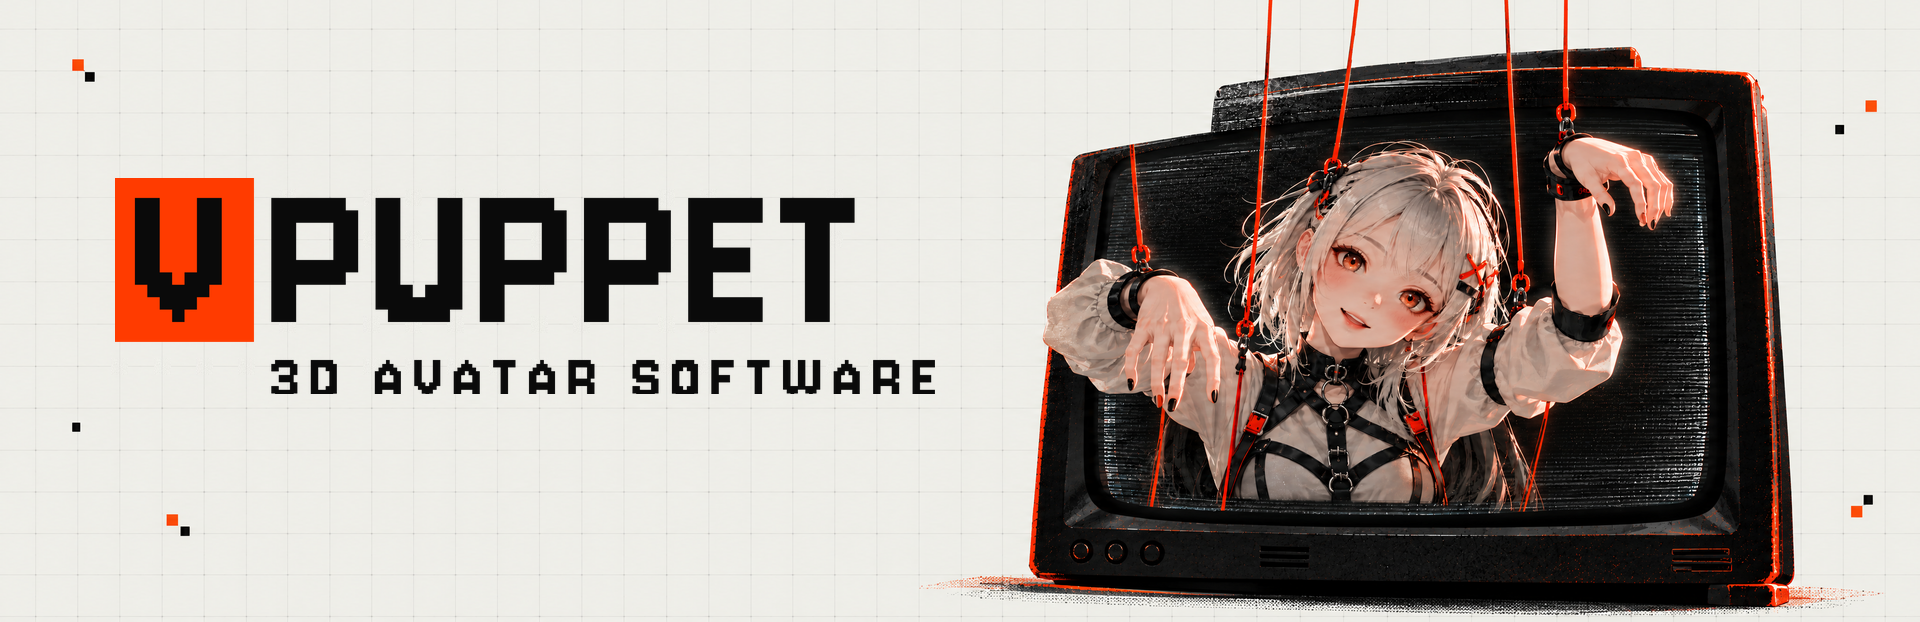
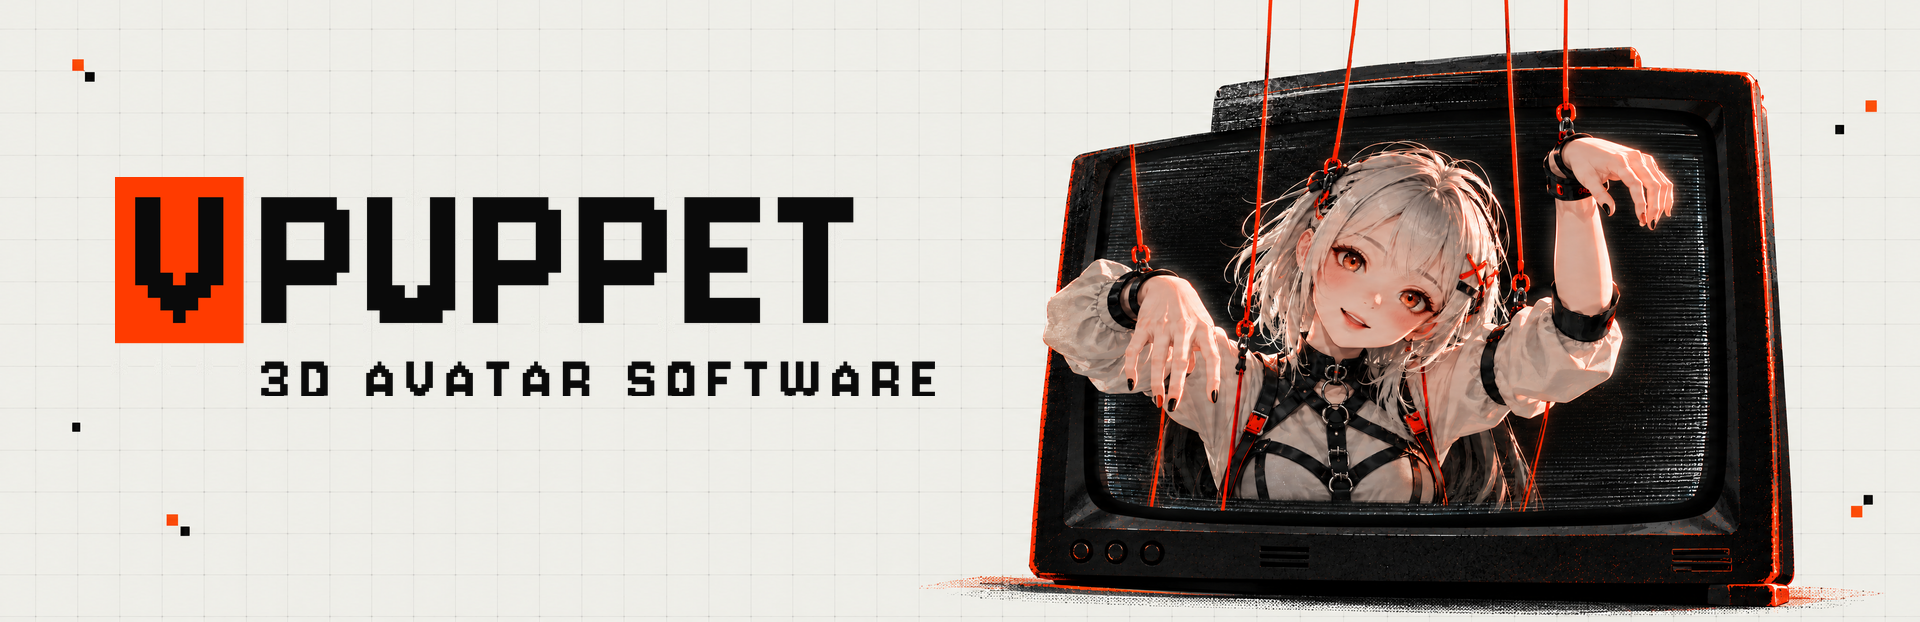
Steam capsules: centre the V on its block by its ink, not PIL's text box

Changed region(s): [[0.0938, 0.2749, 0.4062, 0.5498], [0.125, 0.5804, 0.5, 0.6415], [0.0625, 0.5498, 0.125, 0.5804]]

diff --git a/steam/capsules/make_capsules.py b/steam/capsules/make_capsules.py
@@ -55,12 +55,22 @@ def _text(draw, xy, text, font, fill, spacing=0):
     return x - spacing
 
 
+def ink_box(text, font):
+    """The bounding box of the pixels `text` actually draws at (0, 0) (PIL's
+    textbbox includes Jersey 10's right side bearing)."""
+    l, t, r, b = ImageDraw.Draw(Image.new("L", (1, 1))).textbbox((0, 0), text, font=font)
+    m = Image.new("L", (r - min(l, 0) + 2, b - min(t, 0) + 2))
+    ImageDraw.Draw(m).text((-min(l, 0), -min(t, 0)), text, font=font, fill=255)
+    x0, y0, x1, y1 = m.getbbox()
+    return x0 + min(l, 0), y0 + min(t, 0), x1 + min(l, 0), y1 + min(t, 0)
+
+
 def render_logo(width, tagline=True):
     """The logo at `width` px: drawn 4x large in Jersey 10, then downscaled."""
     big = 640                                   # font px at 4x
     f = ImageFont.truetype(str(FONT), big)
     probe = ImageDraw.Draw(Image.new("L", (1, 1)))
-    l, t, r, b = probe.textbbox((0, 0), "V", font=f)
+    l, t, r, b = ink_box("V", f)
     cap = b - t
     pad = round(cap * 0.16)                     # orange around the V
     gap = round(cap * 0.14)                     # block to "PUPPET"
@@ -91,7 +101,7 @@ def icon(size):
     l, t, r, b = d.textbbox((0, 0), "V", font=f)
     k = size * 4 * 0.72 / (b - t)
     f = ImageFont.truetype(str(FONT), round(size * 4 * k))
-    l, t, r, b = d.textbbox((0, 0), "V", font=f)
+    l, t, r, b = ink_box("V", f)
     d.text(((size * 4 - (r - l)) / 2 - l, (size * 4 - (b - t)) / 2 - t), "V", font=f, fill=INK)
     return canvas.resize((size, size), Image.LANCZOS)
 
